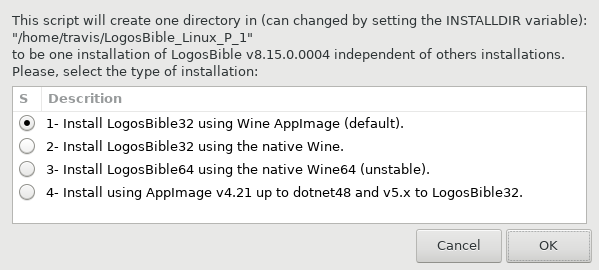
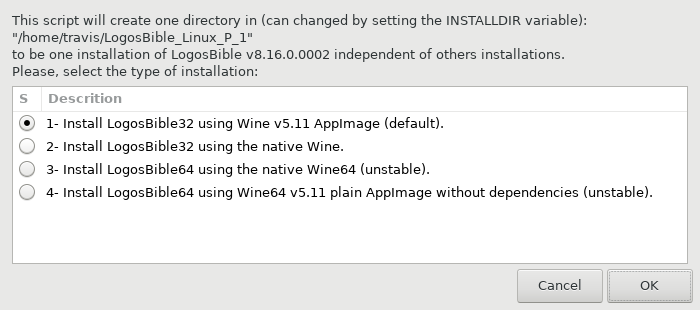
readme instructions and img update

Changed region(s): [[0.0, 0.0296, 0.9917, 0.9778]]

diff --git a/README.md b/README.md
@@ -1,14 +1,14 @@
 # LogosLinuxInstaller
 > LogosLinuxInstaller is a bash script for installation of Logos Bible on Linux.
 
-##### * NOTE The v2.0 break backward compatibility with previous 1.x versions. It will work like the portable version, with variations that may or may not use AppImage, depending on the user's choice, but all installation alternatives will maintain some isolation from the rest of the system and other installations (the independent directory can be moved/renamed without losing functionality).
+##### * NOTE The v2.x break backward compatibility with previous 1.x versions. It will work like the portable version, with variations that may or may not use AppImage, depending on the user's choice, but all installation alternatives will maintain some isolation from the rest of the system and other installations (the independent directory can be moved/renamed without losing functionality).
 
-### v2.0 or higher  instructions:
+### v2.x or higher  instructions:
 #### 00-  Download and execute:
 You can download the last release [[HERE]](https://github.com/ferion11/LogosLinuxInstaller/releases "[HERE]").
 - If you have the file `Logos-x86.msi` or `Logos-x64.msi`, you can let one copy of it in `/tmp` (or set the variable DOWNLOADED_RESOURCES to the directory that have it) that the installer will use it. It can be useful to install others version without change the script (the same for the others `winetricks` or `wine-i386_x86_64-archlinux.AppImage` versions).
 - If you want to use some other option for `winetricks`, then just set the variable `WINETRICKS_EXTRA_OPTION` (the default is just `-q`), like:
-`$ export WINETRICKS_EXTRA_OPTION="-q --force"` to force the installation on unsupported versions of Wine.
+`$ export WINETRICKS_EXTRA_OPTION="-q --force"` to force the installation on unsupported versions of Wine, or `$ export WINETRICKS_EXTRA_OPTION=""` to remove the default `-q`.
 
 0.1- After that you need to give permission to execute (You can use some graphical method too, but it will depend on your linux distribution):
 ```
@@ -26,7 +26,7 @@ $ ./install_AppImageWine_and_Logos.sh
 
 ![Step01](/img/step_01.png)
 
-* The default is using the 32bit AppImage, that provide better isolation. But you can choose do it using your native wine 32bits (that I recommend do using the 32bits, but you will need multilib wine installed in your 64bits system) or 64bit (is very unstable, work only on few cases, and need one wine 64bits made with WoW64 compatibility layer with 32bits, because dotnet need the 32bits wine working to install it on the 64bit profile). Option 4 is for better compatibility installation using AppImage (if you don't want AppImage, but like the installation option 4, then just remove the AppImage file from the `data` dir, and it will use your native wine). Regardless of your choice, the installation will be done in isolation from the others.
+* The default is using the 32bit AppImage, that provide better isolation. But you can choose do it using your native wine 32bits (some versions of wine will not work, so use `v5.11`) or 64bit (is unstable, work only on few cases, and need one wine 64bits made with WoW64 compatibility layer with 32bits, because dotnet need the 32bits wine working to install it on the 64bit profile, and again use `v5.11`). Option 4 is for better compatibility 64bits installation using one AppImage, but without deps, so I recommend that you have one wine WoW64 installated anyway for the dependencies (if you don't want AppImage, but like the installation option 4, then just remove the AppImage file from the `data` dir, and it will use your native wine). Regardless of your choice, the installation will be done in isolation from the others.
 
 * Who is travis? Travis-ci is the automated system that test and generates the images, [[HERE]](https://github.com/ferion11/LogosLinuxInstallTests "[HERE]")
 
@@ -117,12 +117,27 @@ If the windows does leave the screen then just holding the `Alt` key you can mov
 * You can also use the `Logos.sh` or `controlPanel.sh` to execute Wine or winetricks commands on that installation, like:
   - `$ ./Logos.sh wine regedit.exe`
   - `$ ./Logos.sh winetricks calibri`
+  - if there is another version of winetricks inside `LogosBible_Linux_P`, the `Logos.sh` or `controlPanel.sh` will use it.
 
 * If, after the installation, you want to use a different version of winetricks, just copy it to the same directory that the `Logos.sh` and `controlPanel.sh`, then the 2 scripts will use it, instead of download the last git version.
 
 * You can run the standalone Logos Bible indexing on the console with:
 ```
 $ ./Logos.sh indexing
+```
+
+* You can enable/disable the Logos Bible logs with:
+```
+$ ./Logos.sh logsOn
+or
+$ ./Logos.sh logsOff
+```
+
+* You can have multiples AppImages on `data` directory, then change it with:
+```
+$ ./Logos.sh selectAppImage
+or
+$ ./controlPanel.sh selectAppImage
 ```
 
 * The `data` directory contains the Wine Bottle and possibly the AppImage, for this installation.
